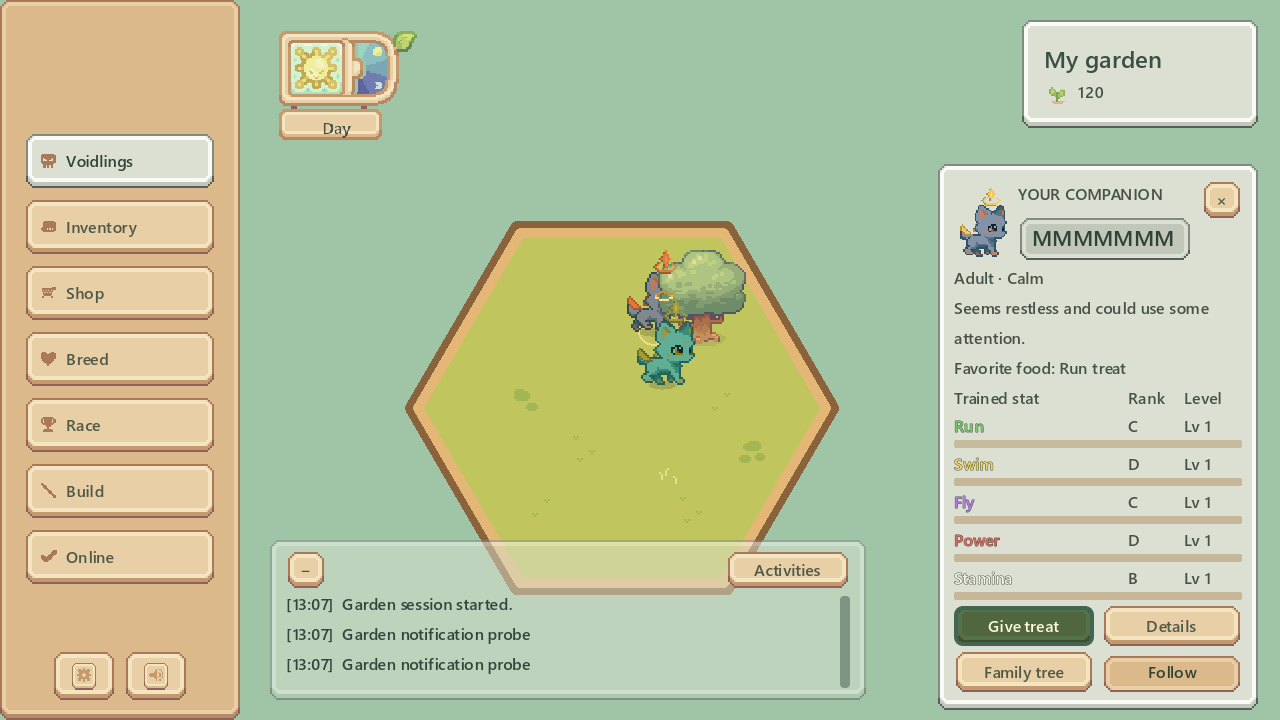
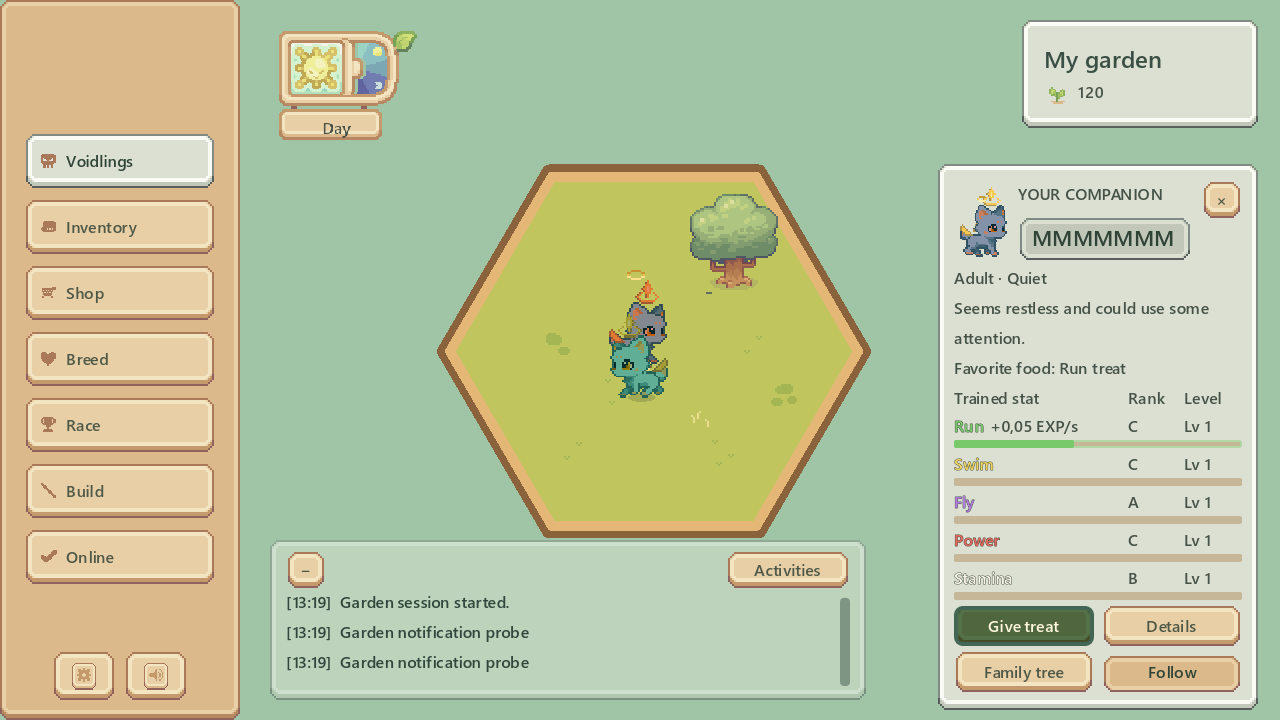
Show live passive training progress

diff --git a/Scripts/Presentation/UI/Garden/GardenInspector.cs b/Scripts/Presentation/UI/Garden/GardenInspector.cs
@@ -27,7 +27,7 @@ public partial class GardenInspector : PanelContainer
     private Button _treat = null!;
     private TextureRect _portrait = null!;
     private CreatureProfileProjection _visualProfile = null!;
-    private readonly Dictionary<string, (Label rank, Label level, ProgressBar progress)> _stats = new();
+    private readonly Dictionary<string, (Label rank, Label level, Label rate, ProgressBar progress, StyleBoxFlat background)> _stats = new();
     private string _trainingStat = string.Empty;
     public string CreatureId { get; private set; } = string.Empty;
 
@@ -93,19 +93,25 @@ public partial class GardenInspector : PanelContainer
         foreach (var stat in profile.Stats)
         {
             var label = UiFactory.CreateLabel(StatPresentationCatalog.NameFor(stat.StatId), 8);
-            label.SizeFlagsHorizontal = SizeFlags.ExpandFill;
             label.AddThemeColorOverride("font_color", StatPresentationCatalog.ColorFor(stat.StatId));
             label.AddThemeColorOverride("font_outline_color", Color.FromHtml("#465247"));
             label.AddThemeConstantOverride("outline_size", 1);
+            var statName = new HBoxContainer { SizeFlagsHorizontal = SizeFlags.ExpandFill };
+            statName.AddThemeConstantOverride("separation", 3);
+            statName.AddChild(label);
+            var rate = UiFactory.CreateLabel(string.Empty, 6);
+            rate.Name = "Rate_" + stat.StatId;
+            rate.SizeFlagsHorizontal = SizeFlags.ExpandFill;
+            statName.AddChild(rate);
             var rank = UiFactory.CreateLabel(string.Empty, 8);
             var level = UiFactory.CreateLabel(string.Empty, 8);
             var block = new VBoxContainer();
             block.AddThemeConstantOverride("separation", 1);
-            block.AddChild(CreateStatRow(label, rank, level));
-            var progress = CreateProgressBar(stat.StatId);
+            block.AddChild(CreateStatRow(statName, rank, level));
+            var (progress, background) = CreateProgressBar(stat.StatId);
             block.AddChild(progress);
             table.AddChild(block);
-            _stats.Add(stat.StatId, (rank, level, progress));
+            _stats.Add(stat.StatId, (rank, level, rate, progress, background));
         }
         box.AddChild(table);
         var actions = new GridContainer { Columns = 2 };
@@ -132,10 +138,15 @@ public partial class GardenInspector : PanelContainer
 
     public override void _Process(double delta)
     {
-        var pulse = 0.88f + (Mathf.Sin((float)Time.GetTicksMsec() / 240.0f) + 1.0f) * 0.06f;
+        var pulse = (Mathf.Sin((float)Time.GetTicksMsec() / 240.0f) + 1.0f) * 0.5f;
         foreach (var (statId, view) in _stats)
-            view.progress.Modulate = new Color(1, 1, 1,
-                string.Equals(statId, _trainingStat, StringComparison.Ordinal) ? pulse : 1.0f);
+        {
+            var active = string.Equals(statId, _trainingStat, StringComparison.Ordinal);
+            view.background.SetBorderWidthAll(active ? 1 : 0);
+            var border = StatPresentationCatalog.ColorFor(statId);
+            border.A = 0.45f + pulse * 0.45f;
+            view.background.BorderColor = border;
+        }
     }
 
     public void FocusCare() => _treat.GrabFocus();
@@ -168,6 +179,10 @@ public partial class GardenInspector : PanelContainer
             _stats[stat.StatId].rank.Text = stat.InheritedRank;
             _stats[stat.StatId].level.Text = string.Format(Tr("UI_PROFILE_LEVEL_VALUE"), stat.TrainingLevel);
             _stats[stat.StatId].progress.Value = stat.TrainingProgress;
+            _stats[stat.StatId].rate.Visible = stat.TrainingPointsPerSecond > 0;
+            _stats[stat.StatId].rate.Text = stat.TrainingPointsPerSecond > 0
+                ? string.Format(Tr("UI_PROFILE_EXP_PER_SECOND"), stat.TrainingPointsPerSecond)
+                : string.Empty;
         }
         _follow.SetPressedNoSignal(following);
         _trainingStat = trainingStat;
@@ -186,7 +201,7 @@ public partial class GardenInspector : PanelContainer
         return row;
     }
 
-    private static ProgressBar CreateProgressBar(string statId)
+    private static (ProgressBar bar, StyleBoxFlat background) CreateProgressBar(string statId)
     {
         var bar = new ProgressBar
         {
@@ -202,7 +217,7 @@ public partial class GardenInspector : PanelContainer
         fill.SetCornerRadiusAll(1);
         bar.AddThemeStyleboxOverride("background", background);
         bar.AddThemeStyleboxOverride("fill", fill);
-        return bar;
+        return (bar, background);
     }
 
     private static TextureRect CreatePortrait(CreatureProfileProjection profile)

diff --git a/Scripts/Application/Roster/CreatureProfileProjectionService.cs b/Scripts/Application/Roster/CreatureProfileProjectionService.cs
@@ -26,6 +26,7 @@ public sealed record CreatureProfileStatProjection(
 {
     public int TrainingPoints { get; init; }
     public int TrainingPointCap { get; init; }
+    public double TrainingPointsPerSecond { get; init; }
 }
 
 public sealed record CreatureProfileRareTraitProjection(
@@ -97,9 +98,14 @@ public sealed class CreatureProfileProjectionService
         {
             var gene = StatCalculator.GetGene(creature, statId);
             var progress = _stats.GetLevelProgress(creature, statId);
+            var pointsPerSecond = 0.0;
             if (string.Equals(creature.PassiveTrainingStatId, statId, StringComparison.Ordinal) &&
                 _stats.GetLevel(creature, statId) < _rules.Stats.MaxLevel)
             {
+                var pointsPerMinute = string.IsNullOrEmpty(creature.PassiveTrainingModuleId)
+                    ? _rules.PassiveTraining.PointsPerMinute
+                    : creature.PassiveTrainingPointsPerMinute;
+                pointsPerSecond = Math.Max(0.0, pointsPerMinute / 60.0);
                 progress = (float)Math.Min(1.0, progress + creature.PassiveTrainingPointRemainder /
                     _rules.Stats.TrainingPointsPerLevel);
             }
@@ -113,7 +119,8 @@ public sealed class CreatureProfileProjectionService
                 GradeName(gene.AlleleB))
             {
                 TrainingPoints = _stats.GetTrainingPoints(creature, statId),
-                TrainingPointCap = _stats.GetTrainingPointCap(creature, statId)
+                TrainingPointCap = _stats.GetTrainingPointCap(creature, statId),
+                TrainingPointsPerSecond = pointsPerSecond
             };
         }).ToArray();
 

diff --git a/Scripts/UI/MainController.GardenUiSmoke.cs b/Scripts/UI/MainController.GardenUiSmoke.cs
@@ -139,7 +139,12 @@ public partial class MainController
             {
                 Name = "MMMMMMMMMMMMMMMMMM",
                 DiscoveredFavoriteFoodId = GameRules.StatIds[0],
-                CareDemeanor = Voidling.Application.Roster.CreatureCareDemeanor.NeedsCare
+                CareDemeanor = Voidling.Application.Roster.CreatureCareDemeanor.NeedsCare,
+                Stats = _session.CreateCreatureProfileProjection(inspector.CreatureId)!.Stats
+                    .Select((stat, index) => index == 0
+                        ? stat with { TrainingProgress = 0.42, TrainingPointsPerSecond = 0.05 }
+                        : stat)
+                    .ToArray()
             };
             inspector.Render(expandedProfile, GameRules.StatIds[0], true);
             await SettleGardenUi();
@@ -153,6 +158,9 @@ public partial class MainController
             }
             if (inspector.FindChild("StopTraining", true, false) != null)
                 throw new InvalidOperationException("Inspector still renders the redundant passive-training row.");
+            var activeRate = inspector.FindChild("Rate_" + GameRules.StatIds[0], true, false) as Label;
+            if (activeRate is not { Visible: true } || !activeRate.Text.Contains("EXP/s", StringComparison.Ordinal))
+                throw new InvalidOperationException("Inspector did not show the active training rate.");
             await CaptureGardenUi("companion-expanded");
             RefreshUi();
             await SettleGardenUi();

diff --git a/Tests/Application/PlayerInformationProjectionTests.cs b/Tests/Application/PlayerInformationProjectionTests.cs
@@ -55,6 +55,8 @@ public sealed class PlayerInformationProjectionTests
         var creature = CreateCreature("training");
         creature.TrainingPoints["run"] = 5;
         creature.PassiveTrainingStatId = "run";
+        creature.PassiveTrainingPointsPerMinute = 3;
+        creature.PassiveTrainingModuleId = "run-ground";
         creature.PassiveTrainingPointRemainder = 0.5;
         state.Voidlings.Add(creature);
 
@@ -62,6 +64,7 @@ public sealed class PlayerInformationProjectionTests
             .Single(stat => stat.StatId == "run");
 
         Assert.InRange(run.TrainingProgress, 5.49 / 12.0, 5.51 / 12.0);
+        Assert.Equal(0.05, run.TrainingPointsPerSecond, 3);
     }
 
     [Theory]

diff --git a/docs/UI_UX_IMPLEMENTATION_PLAN.md b/docs/UI_UX_IMPLEMENTATION_PLAN.md
@@ -179,5 +179,5 @@ Stage 2 passed Debug and Release builds, all 236 tests, architecture/localizatio
 - Clicking the shaded area outside any modal now closes it through `ModalHost`, covering Settings and every rail submenu that uses the shared host.
 - Moved the Garden name and numeric sprout balance to the upper right with the premium sprout icon, moved the day/night dial into the former garden-card position, and removed Center.
 - Added faint pointer hover outlines for Voidlings and hexes, with the Voidling taking priority when both overlap. Clicking a placed hex now opens its conversion, occupancy and upgrade controls in the right-side Garden inspector without blocking the world.
-- Restored per-stat training progress bars in the compact companion inspector. Stat names and fills use their stat colors, active passive training pulses and includes fractional live progress, and the redundant passive/stop row is removed.
+- Restored per-stat training progress bars in the compact companion inspector. Stat names and fills use their stat colors; the active bar has a visible pulsing outline, includes fractional live progress, and shows its actual `+… EXP/s` rate beside the stat name. The redundant passive/stop row is removed.
 - Simplified the Shop catalogue to Type and Price columns, replaced currency wording with the premium farming sprout, and removed receipt description and inventory-note copy.
